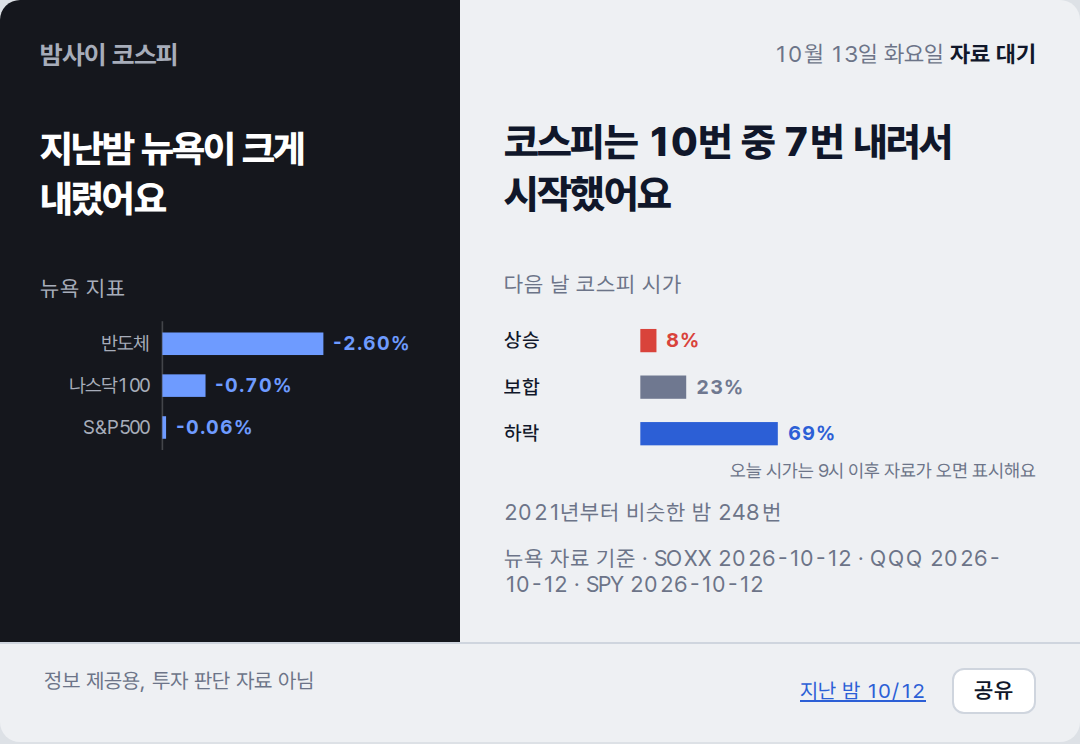
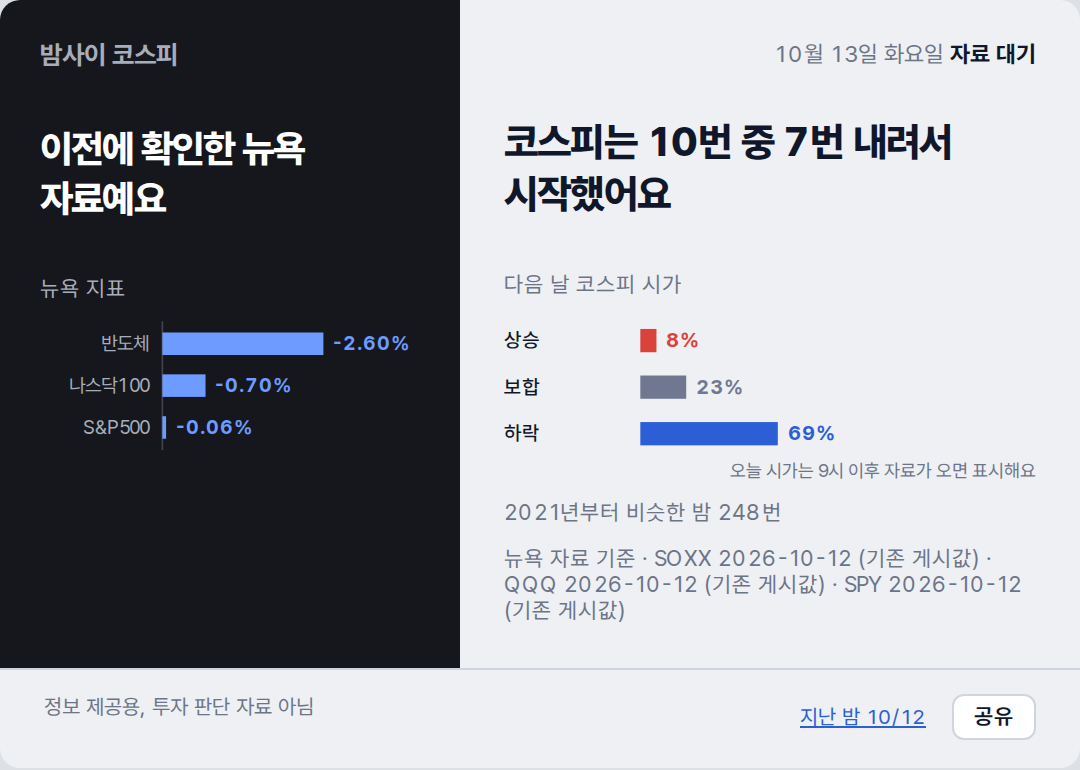
deploy: c0d07a214321b41f7cf333fef670b17ffe5b5852

diff --git a/2026-10-13/index.html b/2026-10-13/index.html
@@ -2,7 +2,7 @@
 <title>밤사이 코스피 · 2026-10-13</title>
 <meta name="description" content="전일 코스피 마감에서 밤사이 뉴욕을 거쳐 오늘 코스피 시가까지, 한 장.">
 <meta property="og:type" content="article"><meta property="og:site_name" content="밤사이 코스피"><meta property="og:url" content="https://mjs0611.github.io/kospi-relay/2026-10-13/">
-<meta property="og:title" content="지난밤 뉴욕이 크게 내렸어요"><meta property="og:description" content="코스피는 10번 중 7번 내려서 시작했어요">
+<meta property="og:title" content="이전에 확인한 뉴욕 자료예요"><meta property="og:description" content="코스피는 10번 중 7번 내려서 시작했어요">
 <meta property="og:image" content="https://mjs0611.github.io/kospi-relay/2026-10-13/relay.png"><meta property="og:image:width" content="1080"><meta name="twitter:card" content="summary_large_image">
 <link rel="stylesheet" href="https://cdn.jsdelivr.net/gh/orioncactus/pretendard@v1.3.9/dist/web/variable/pretendardvariable-dynamic-subset.min.css">
 <style>
@@ -26,7 +26,7 @@ footer a{color:#2C5FD6}
 .share{margin-left:10px;border:1px solid #CFD5DE;background:#FFF;color:#10172A;border-radius:6px;padding:4px 10px;font:600 11px var(--sans);cursor:pointer}
 @media (max-width:480px){.sheet{grid-template-columns:1fr}.cond{margin-top:18px}.claim{margin-top:4px}}
 </style></head><body><div class="sheet">
-<section class="night"><p class="brand">밤사이 코스피</p><p class="cond">지난밤 뉴욕이 크게 내렸어요</p><p class="lab">뉴욕 지표</p><svg viewBox="0 0 236 84" xmlns="http://www.w3.org/2000/svg" font-family="var(--sans)" font-size="12">
+<section class="night"><p class="brand">밤사이 코스피</p><p class="cond">이전에 확인한 뉴욕 자료예요</p><p class="lab">뉴욕 지표</p><svg viewBox="0 0 236 84" xmlns="http://www.w3.org/2000/svg" font-family="var(--sans)" font-size="12">
 <line x1="76" y1="2" x2="76" y2="82" stroke="var(--rule)" stroke-width="1"/>
 <text x="68" y="20" text-anchor="end" fill="var(--muted)">반도체</text>
 <rect x="76" y="9" width="100.0" height="14" fill="var(--down)"/>
@@ -49,12 +49,12 @@ footer a{color:#2C5FD6}
 <rect x="82" y="65" width="82.7" height="14" fill="var(--down)"/>
 <text x="170.7" y="76" fill="var(--down)" font-weight="700">69%</text>
 <text x="320" y="98" text-anchor="end" fill="var(--muted)" font-size="11">오늘 시가는 9시 이후 자료가 오면 표시해요</text>
-</svg><p class="cap">2021년부터 비슷한 밤 248번</p><p class="cap">뉴욕 자료 기준 · SOXX 2026-10-12 · QQQ 2026-10-12 · SPY 2026-10-12</p></section>
+</svg><p class="cap">2021년부터 비슷한 밤 248번</p><p class="cap">뉴욕 자료 기준 · SOXX 2026-10-12 (기존 게시값) · QQQ 2026-10-12 (기존 게시값) · SPY 2026-10-12 (기존 게시값)</p></section>
 <footer><span>정보 제공용, 투자 판단 자료 아님</span><span style="white-space:nowrap"><a href="../2026-10-12/">지난 밤 10/12</a> <button class="share" type="button">공유</button></span></footer>
 <script>
 /* 공유: Web Share가 있으면 시스템 공유 시트, 없으면 링크 복사. 링크는 이 날짜 페이지(OG 카드 붙음) */
 document.querySelector('.share').addEventListener('click', async function () {
-  var url = 'https://mjs0611.github.io/kospi-relay/2026-10-13/', text = "지난밤 뉴욕이 크게 내렸어요. 코스피는 10번 중 7번 내려서 시작했어요";
+  var url = 'https://mjs0611.github.io/kospi-relay/2026-10-13/', text = "이전에 확인한 뉴욕 자료예요. 코스피는 10번 중 7번 내려서 시작했어요";
   try { if (navigator.share) { await navigator.share({ title: '밤사이 코스피', text: text, url: url }); return; } } catch (e) { if (e && e.name === 'AbortError') return; }
   try { await navigator.clipboard.writeText(text + '\n' + url); this.textContent = '링크 복사됨'; } catch (e) { location.href = url; }
 });

diff --git a/index.html b/index.html
@@ -2,7 +2,7 @@
 <title>밤사이 코스피 · 2026-10-13</title>
 <meta name="description" content="전일 코스피 마감에서 밤사이 뉴욕을 거쳐 오늘 코스피 시가까지, 한 장.">
 <meta property="og:type" content="article"><meta property="og:site_name" content="밤사이 코스피"><meta property="og:url" content="https://mjs0611.github.io/kospi-relay/2026-10-13/">
-<meta property="og:title" content="지난밤 뉴욕이 크게 내렸어요"><meta property="og:description" content="코스피는 10번 중 7번 내려서 시작했어요">
+<meta property="og:title" content="이전에 확인한 뉴욕 자료예요"><meta property="og:description" content="코스피는 10번 중 7번 내려서 시작했어요">
 <meta property="og:image" content="https://mjs0611.github.io/kospi-relay/2026-10-13/relay.png"><meta property="og:image:width" content="1080"><meta name="twitter:card" content="summary_large_image">
 <link rel="stylesheet" href="https://cdn.jsdelivr.net/gh/orioncactus/pretendard@v1.3.9/dist/web/variable/pretendardvariable-dynamic-subset.min.css">
 <style>
@@ -26,7 +26,7 @@ footer a{color:#2C5FD6}
 .share{margin-left:10px;border:1px solid #CFD5DE;background:#FFF;color:#10172A;border-radius:6px;padding:4px 10px;font:600 11px var(--sans);cursor:pointer}
 @media (max-width:480px){.sheet{grid-template-columns:1fr}.cond{margin-top:18px}.claim{margin-top:4px}}
 </style></head><body><div class="sheet">
-<section class="night"><p class="brand">밤사이 코스피</p><p class="cond">지난밤 뉴욕이 크게 내렸어요</p><p class="lab">뉴욕 지표</p><svg viewBox="0 0 236 84" xmlns="http://www.w3.org/2000/svg" font-family="var(--sans)" font-size="12">
+<section class="night"><p class="brand">밤사이 코스피</p><p class="cond">이전에 확인한 뉴욕 자료예요</p><p class="lab">뉴욕 지표</p><svg viewBox="0 0 236 84" xmlns="http://www.w3.org/2000/svg" font-family="var(--sans)" font-size="12">
 <line x1="76" y1="2" x2="76" y2="82" stroke="var(--rule)" stroke-width="1"/>
 <text x="68" y="20" text-anchor="end" fill="var(--muted)">반도체</text>
 <rect x="76" y="9" width="100.0" height="14" fill="var(--down)"/>
@@ -49,12 +49,12 @@ footer a{color:#2C5FD6}
 <rect x="82" y="65" width="82.7" height="14" fill="var(--down)"/>
 <text x="170.7" y="76" fill="var(--down)" font-weight="700">69%</text>
 <text x="320" y="98" text-anchor="end" fill="var(--muted)" font-size="11">오늘 시가는 9시 이후 자료가 오면 표시해요</text>
-</svg><p class="cap">2021년부터 비슷한 밤 248번</p><p class="cap">뉴욕 자료 기준 · SOXX 2026-10-12 · QQQ 2026-10-12 · SPY 2026-10-12</p></section>
+</svg><p class="cap">2021년부터 비슷한 밤 248번</p><p class="cap">뉴욕 자료 기준 · SOXX 2026-10-12 (기존 게시값) · QQQ 2026-10-12 (기존 게시값) · SPY 2026-10-12 (기존 게시값)</p></section>
 <footer><span>정보 제공용, 투자 판단 자료 아님</span><span style="white-space:nowrap"><a href="./2026-10-12/">지난 밤 10/12</a> <button class="share" type="button">공유</button></span></footer>
 <script>
 /* 공유: Web Share가 있으면 시스템 공유 시트, 없으면 링크 복사. 링크는 이 날짜 페이지(OG 카드 붙음) */
 document.querySelector('.share').addEventListener('click', async function () {
-  var url = 'https://mjs0611.github.io/kospi-relay/2026-10-13/', text = "지난밤 뉴욕이 크게 내렸어요. 코스피는 10번 중 7번 내려서 시작했어요";
+  var url = 'https://mjs0611.github.io/kospi-relay/2026-10-13/', text = "이전에 확인한 뉴욕 자료예요. 코스피는 10번 중 7번 내려서 시작했어요";
   try { if (navigator.share) { await navigator.share({ title: '밤사이 코스피', text: text, url: url }); return; } } catch (e) { if (e && e.name === 'AbortError') return; }
   try { await navigator.clipboard.writeText(text + '\n' + url); this.textContent = '링크 복사됨'; } catch (e) { location.href = url; }
 });
